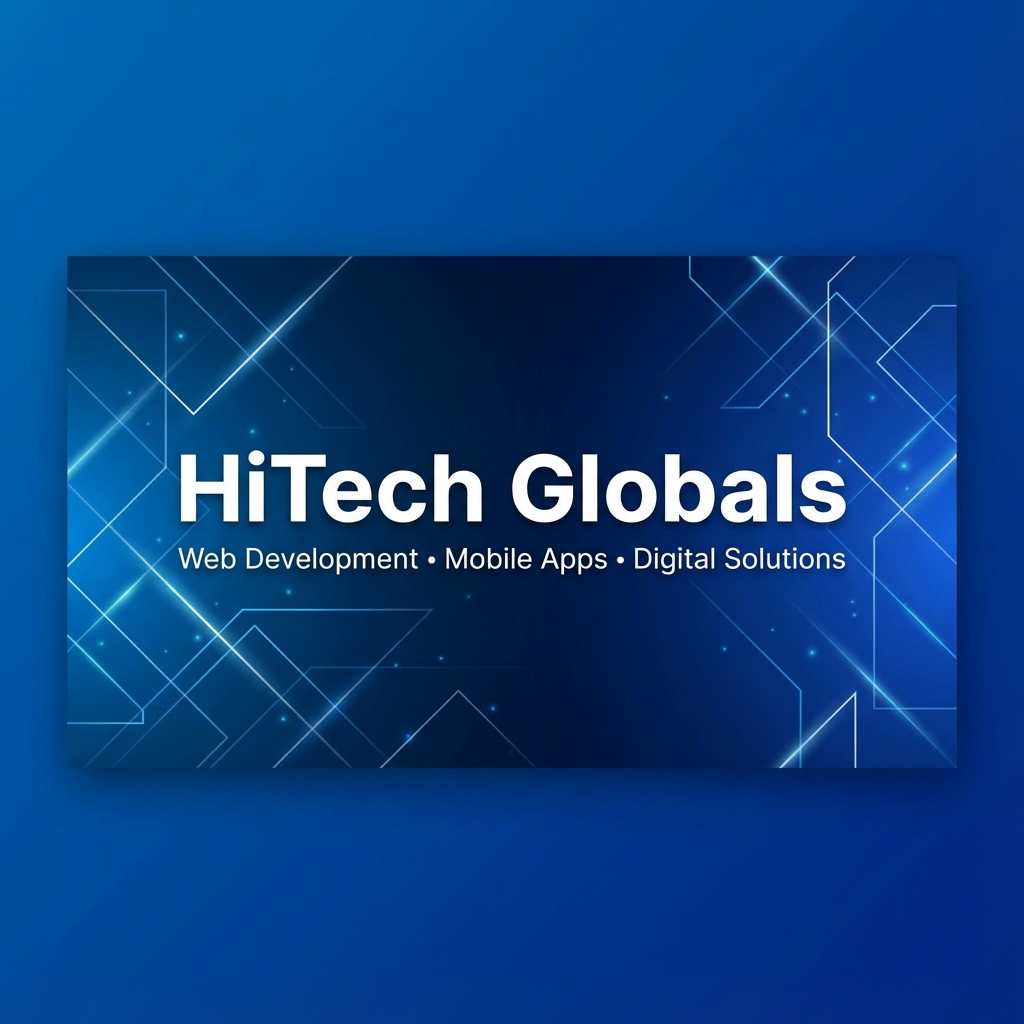
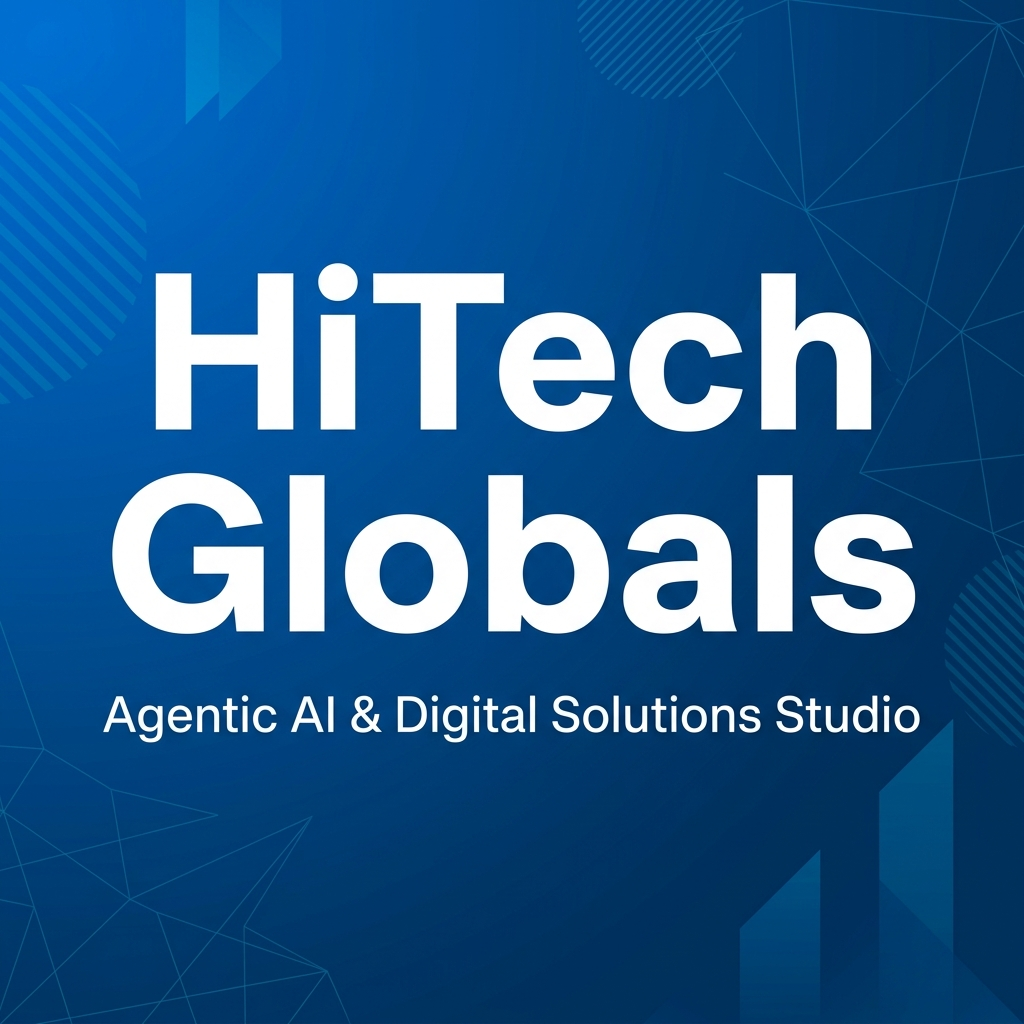
feat: add sitemap generation, lazy-loaded image component, and blog page infrastructure

diff --git a/api/sitemap.ts b/api/sitemap.ts
@@ -1,0 +1,68 @@
+import { createClient } from '@supabase/supabase-js';
+
+export const config = {
+  runtime: 'edge',
+};
+
+export default async function handler() {
+  const supabaseUrl = process.env.VITE_SUPABASE_URL;
+  const supabaseKey = process.env.VITE_SUPABASE_ANON_KEY;
+
+  const staticPages: { loc: string; priority: string; changefreq: string; lastmod?: string }[] = [
+    { loc: '/', priority: '1.0', changefreq: 'weekly' },
+    { loc: '/about', priority: '0.8', changefreq: 'monthly' },
+    { loc: '/services', priority: '0.9', changefreq: 'monthly' },
+    { loc: '/portfolio', priority: '0.8', changefreq: 'weekly' },
+    { loc: '/blog', priority: '0.9', changefreq: 'daily' },
+    { loc: '/contact', priority: '0.7', changefreq: 'monthly' },
+  ];
+
+  let blogPages: { loc: string; priority: string; changefreq: string; lastmod?: string }[] = [];
+
+  // Fetch blog slugs from Supabase
+  if (supabaseUrl && supabaseKey) {
+    try {
+      const supabase = createClient(supabaseUrl, supabaseKey);
+      const { data } = await supabase
+        .from('blogs')
+        .select('slug, updated_at')
+        .eq('published', true)
+        .order('created_at', { ascending: false });
+
+      if (data) {
+        blogPages = data.map((blog) => ({
+          loc: `/blog/${blog.slug}`,
+          priority: '0.7',
+          changefreq: 'weekly',
+          lastmod: blog.updated_at ? blog.updated_at.split('T')[0] : new Date().toISOString().split('T')[0],
+        }));
+      }
+    } catch (e) {
+      console.error('Error fetching blogs for sitemap:', e);
+    }
+  }
+
+  const today = new Date().toISOString().split('T')[0];
+  const allPages = [...staticPages, ...blogPages];
+
+  const sitemap = `<?xml version="1.0" encoding="UTF-8"?>
+<urlset xmlns="http://www.sitemaps.org/schemas/sitemap/0.9">
+${allPages
+    .map(
+      (page) => `  <url>
+    <loc>https://hitechglobals.com${page.loc}</loc>
+    <lastmod>${page.lastmod || today}</lastmod>
+    <changefreq>${page.changefreq}</changefreq>
+    <priority>${page.priority}</priority>
+  </url>`
+    )
+    .join('\n')}
+</urlset>`;
+
+  return new Response(sitemap, {
+    headers: {
+      'Content-Type': 'application/xml',
+      'Cache-Control': 'public, max-age=3600, s-maxage=3600',
+    },
+  });
+}

diff --git a/src/components/OptimizedImage.tsx b/src/components/OptimizedImage.tsx
@@ -1,0 +1,65 @@
+import { useState, useRef, useEffect } from 'react';
+
+interface OptimizedImageProps {
+  src: string;
+  alt: string;
+  className?: string;
+  width?: number;
+  height?: number;
+}
+
+export function OptimizedImage({ src, alt, className = '', width, height }: OptimizedImageProps) {
+  const [isLoaded, setIsLoaded] = useState(false);
+  const [isInView, setIsInView] = useState(false);
+  const imgRef = useRef<HTMLDivElement>(null);
+
+  useEffect(() => {
+    if (!imgRef.current) return;
+
+    const observer = new IntersectionObserver(
+      ([entry]) => {
+        if (entry.isIntersecting) {
+          setIsInView(true);
+          observer.disconnect();
+        }
+      },
+      { rootMargin: '200px' }
+    );
+
+    observer.observe(imgRef.current);
+    return () => observer.disconnect();
+  }, []);
+
+  return (
+    <div
+      ref={imgRef}
+      className={`relative overflow-hidden ${className}`}
+      style={{ width, height }}
+    >
+      {/* Blur placeholder */}
+      <div
+        className={`absolute inset-0 bg-gradient-to-br from-[#0063cd]/20 to-[#0063cd]/5 transition-opacity duration-500 ${
+          isLoaded ? 'opacity-0' : 'opacity-100'
+        }`}
+      >
+        <div className="absolute inset-0 animate-pulse bg-gradient-to-r from-transparent via-white/10 to-transparent" />
+      </div>
+
+      {/* Actual image — only loads when in viewport */}
+      {isInView && (
+        <img
+          src={src}
+          alt={alt}
+          loading="lazy"
+          decoding="async"
+          onLoad={() => setIsLoaded(true)}
+          className={`w-full h-full object-cover transition-opacity duration-500 ${
+            isLoaded ? 'opacity-100' : 'opacity-0'
+          }`}
+          width={width}
+          height={height}
+        />
+      )}
+    </div>
+  );
+}

diff --git a/src/components/pages/BlogPost.tsx b/src/components/pages/BlogPost.tsx
@@ -9,6 +9,7 @@ import { ReadingProgress } from '../ReadingProgress';
 import { RelatedPosts } from '../RelatedPosts';
 import { TableOfContents, calculateReadTime } from '../TableOfContents';
 import { ShareButtons } from '../ShareButtons';
+import { OptimizedImage } from '../OptimizedImage';
 
 export function BlogPost() {
     const { slug } = useParams<{ slug: string }>();
@@ -72,26 +73,43 @@ export function BlogPost() {
                 ogImage={blog.cover_image || undefined}
                 keywords={blog.tags.join(', ')}
             />
-            {/* Structured Data (JSON-LD) - Explicitly adding metadata that's not in the SEO component */}
+            {/* Structured Data (JSON-LD) - Rich blog post schema */}
             <Helmet>
                 <meta property="article:author" content={blog.author} />
                 <meta property="article:published_time" content={blog.created_at} />
+                <meta property="article:modified_time" content={blog.updated_at} />
+                {blog.tags.map((tag) => (
+                    <meta key={tag} property="article:tag" content={tag} />
+                ))}
                 <script type="application/ld+json">
                     {JSON.stringify({
                         "@context": "https://schema.org",
                         "@type": "BlogPosting",
+                        "mainEntityOfPage": {
+                            "@type": "WebPage",
+                            "@id": `https://hitechglobals.com/blog/${blog.slug}`
+                        },
                         "headline": blog.title,
                         "description": blog.excerpt,
+                        "image": blog.cover_image || "https://hitechglobals.com/og-image.png",
                         "author": {
                             "@type": "Organization",
-                            "name": blog.author
+                            "name": blog.author,
+                            "url": "https://hitechglobals.com"
                         },
                         "datePublished": blog.created_at,
                         "dateModified": blog.updated_at,
+                        "wordCount": blog.content.split(/\s+/).length,
+                        "keywords": blog.tags.join(', '),
+                        "articleSection": blog.category,
                         "publisher": {
                             "@type": "Organization",
                             "name": "HiTech Globals",
-                            "url": "https://hitechglobals.com"
+                            "url": "https://hitechglobals.com",
+                            "logo": {
+                                "@type": "ImageObject",
+                                "url": "https://hitechglobals.com/logo.png"
+                            }
                         }
                     })}
                 </script>
@@ -166,8 +184,8 @@ export function BlogPost() {
                         transition={{ duration: 0.6, delay: 0.1 }}
                         className="aspect-video bg-gradient-to-br from-[#0063cd] to-[#0052a8] rounded-2xl mb-10 flex items-center justify-center overflow-hidden"
                     >
-                        {blog.cover_image ? (
-                            <img src={blog.cover_image} alt={blog.title} className="w-full h-full object-cover" />
+                    {blog.cover_image ? (
+                            <OptimizedImage src={blog.cover_image} alt={blog.title} className="w-full h-full" />
                         ) : (
                             <span className="text-white/50 text-6xl font-bold">{blog.title.charAt(0)}</span>
                         )}

diff --git a/src/components/pages/Blog.tsx b/src/components/pages/Blog.tsx
@@ -5,6 +5,7 @@ import { Link } from 'react-router-dom';
 import { ArrowRight, Calendar, User, Sparkles, Clock } from 'lucide-react';
 import { getBlogs, type Blog } from '../../lib/supabase';
 import { Newsletter } from '../Newsletter';
+import { OptimizedImage } from '../OptimizedImage';
 
 export function Blog() {
     const [blogs, setBlogs] = useState<Blog[]>([]);
@@ -166,10 +167,10 @@ export function Blog() {
                                                 {/* Cover Image */}
                                                 <div className="aspect-video relative overflow-hidden">
                                                     {blog.cover_image ? (
-                                                        <img
+                                                        <OptimizedImage
                                                             src={blog.cover_image}
                                                             alt={blog.title}
-                                                            className="w-full h-full object-cover group-hover:scale-105 transition-transform duration-500"
+                                                            className="w-full h-full group-hover:scale-105 transition-transform duration-500"
                                                         />
                                                     ) : (
                                                         <div className="w-full h-full bg-gradient-to-br from-[#0063cd] to-[#0052a8] flex items-center justify-center">